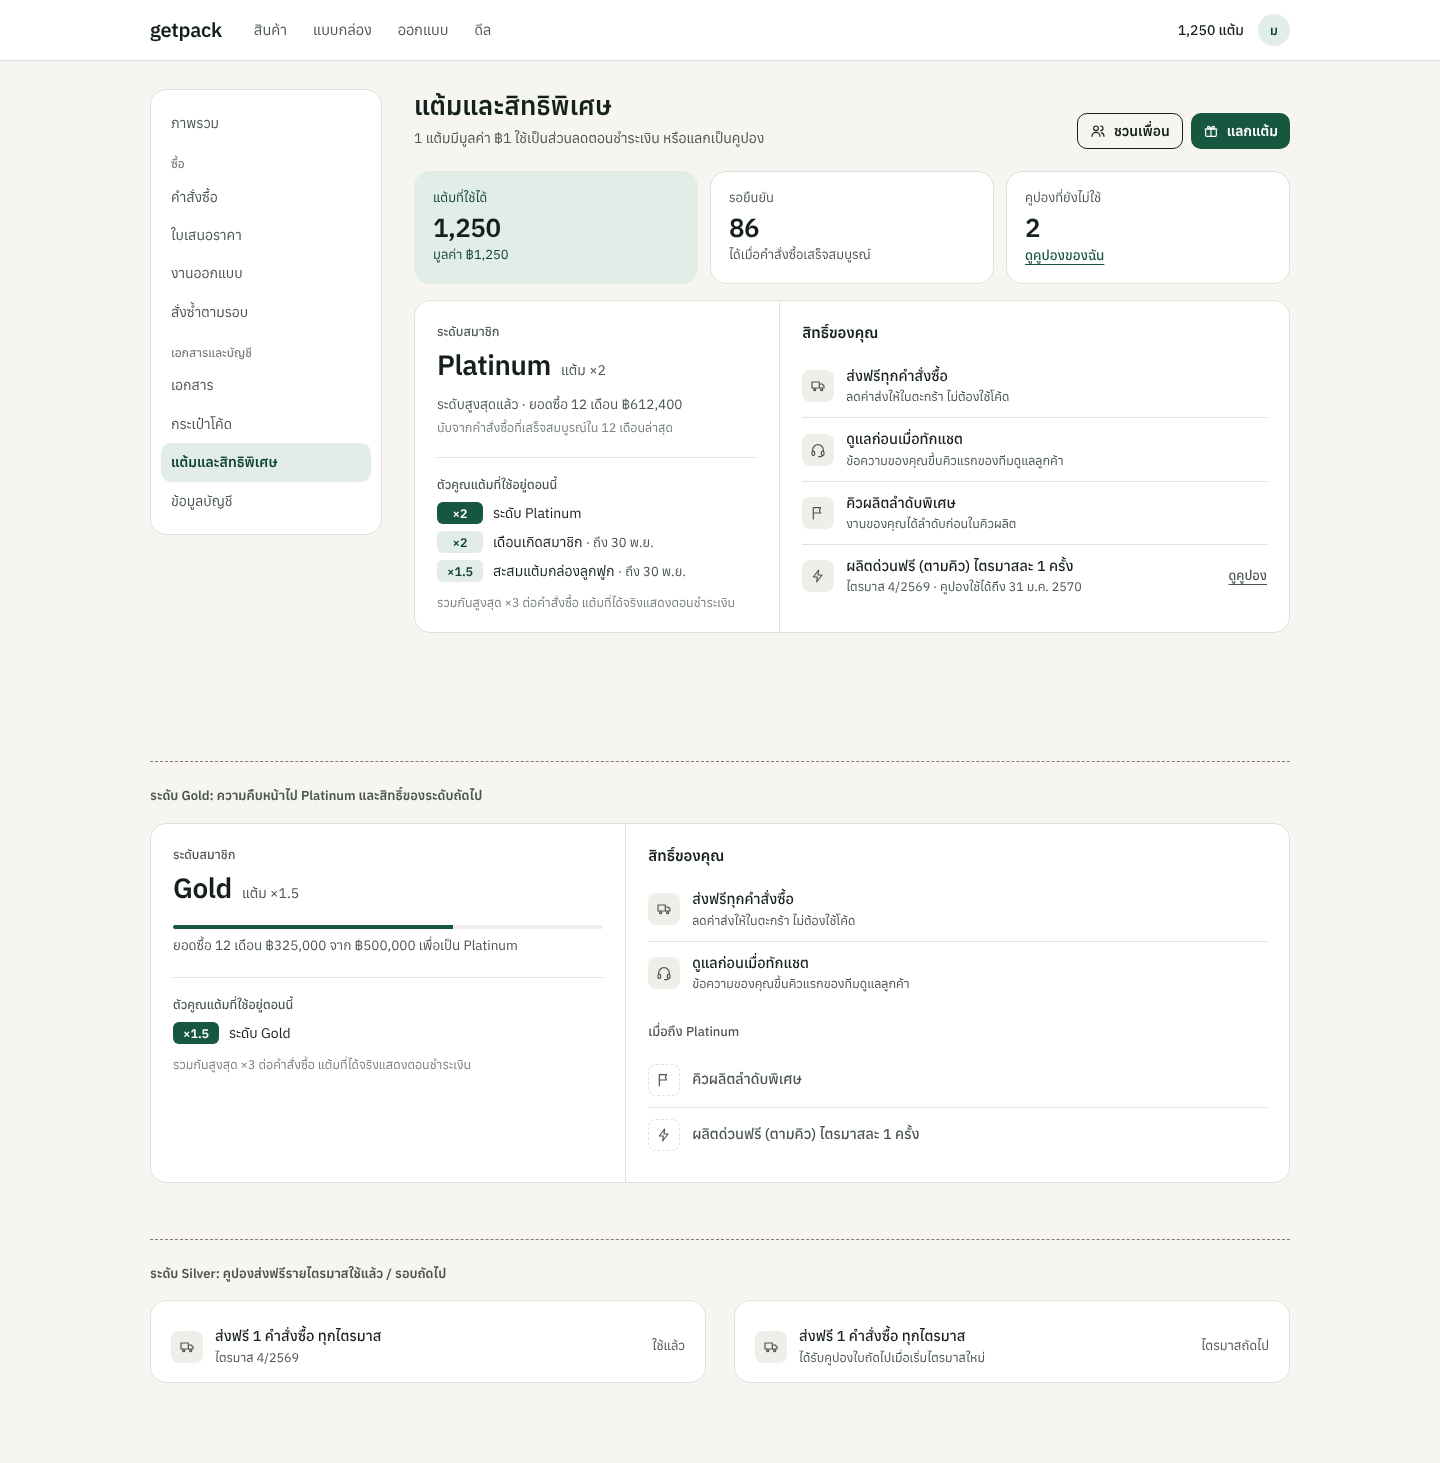
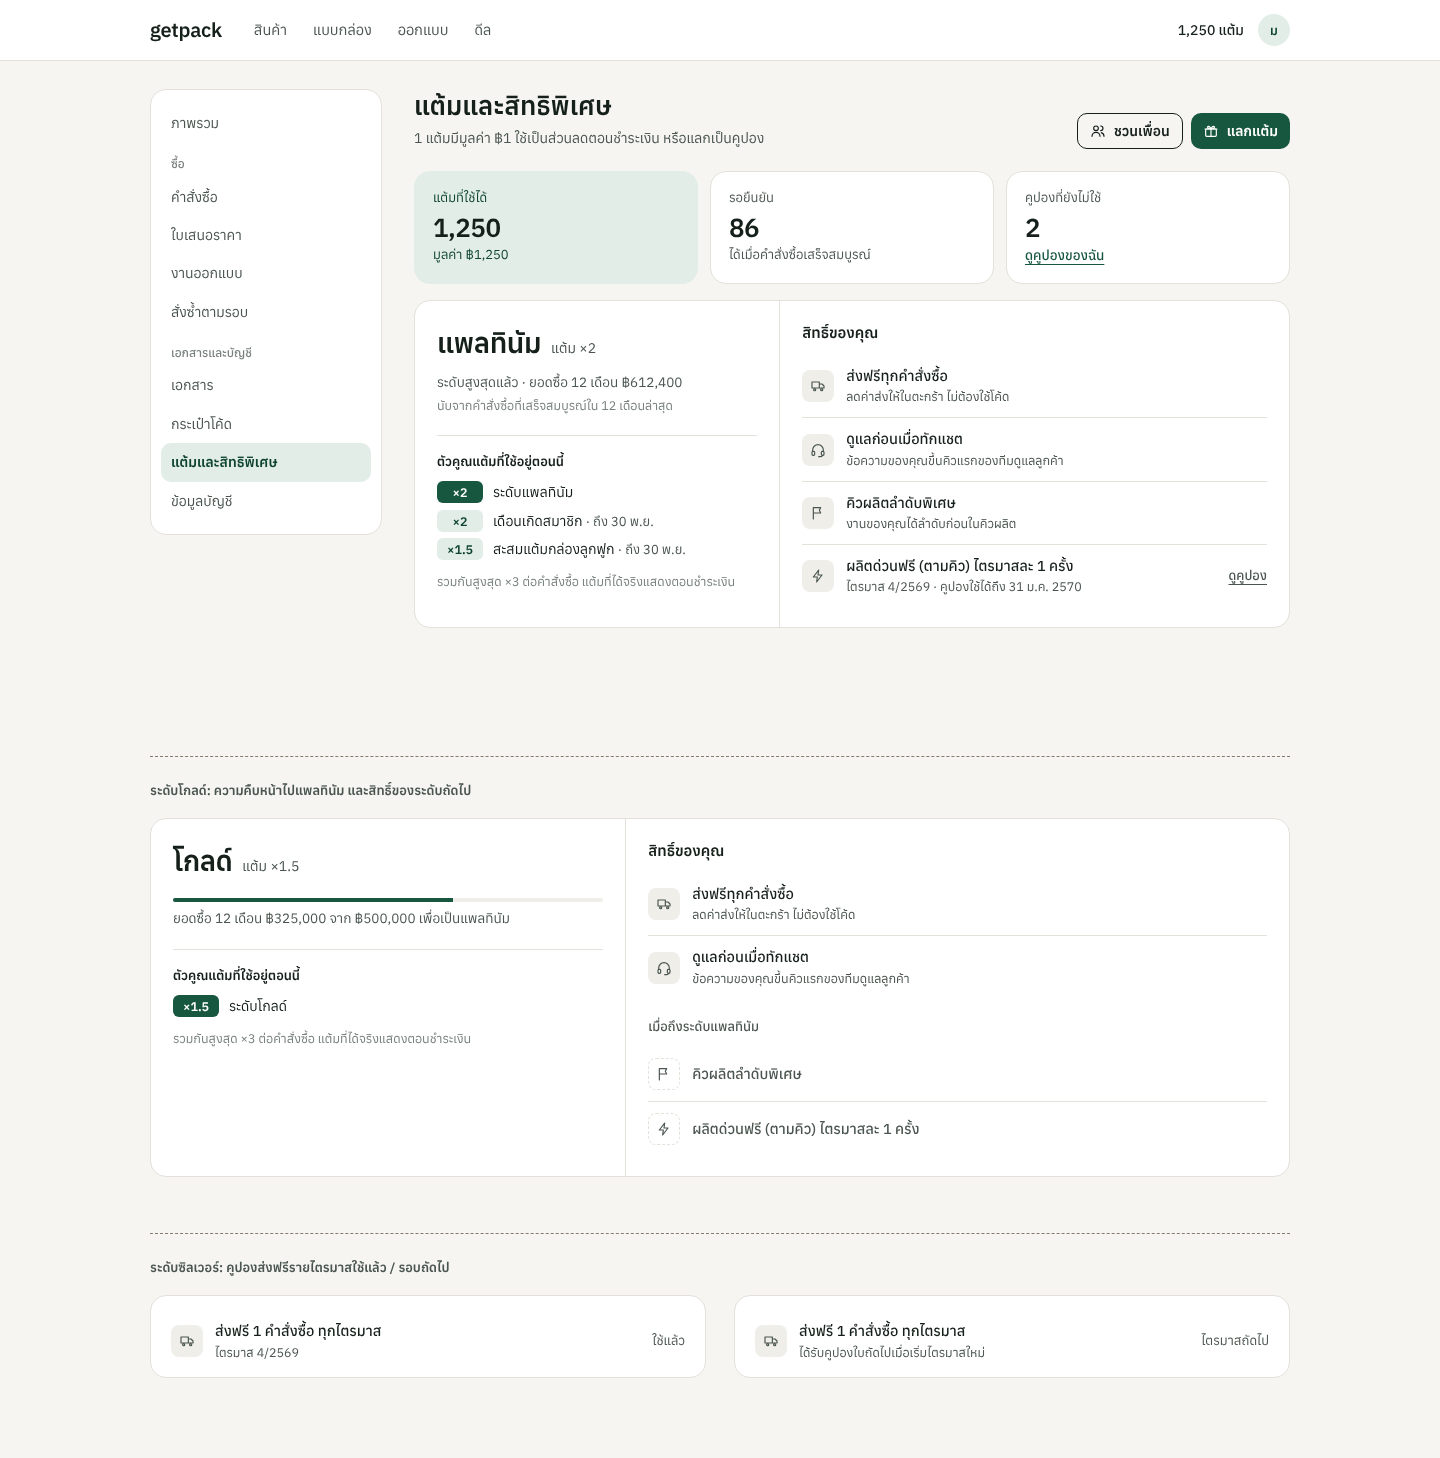
docs(loyalty): P3 prototypes follow the built pages
p3-tier-perks drops the eyebrow (the tier name is the heading) and uses the customer zone's Thai tier names; p3-redeem's cash-off group is ส่วนลดค่าสินค้า. Screenshots at 390 and 1440 re-shot; DESIGN-NOTES self-review extended.

diff --git a/docs/design/loyalty-earn-expansion/prototypes/p3-tier-perks.html b/docs/design/loyalty-earn-expansion/prototypes/p3-tier-perks.html
@@ -337,6 +337,8 @@ h1,h2,h3,p{margin:0}
 .meter{height:4px;border-radius:999px;background:var(--bg-subtle);margin-top:14px;overflow:hidden}
 .meter i{display:block;height:100%;background:var(--primary)}
 .mults{margin-top:20px;padding-top:16px;border-top:1px solid var(--border)}
+.mh{font-size:13px;font-weight:600;margin:0}
+.tname{margin:0;font-weight:inherit}
 .mults ul{list-style:none;margin:8px 0 0;padding:0;display:flex;flex-direction:column;gap:6px}
 .mults li{display:flex;align-items:baseline;gap:10px;font-size:14px}
 .mx{display:inline-flex;justify-content:center;min-width:46px;height:22px;align-items:center;border-radius:6px;background:var(--primary);color:var(--primary-fg);font-size:12.5px;font-weight:600;font-variant-numeric:tabular-nums;flex:none}
@@ -454,14 +456,13 @@ h1,h2,h3,p{margin:0}
 
     <section class="card tp" aria-labelledby="tier-h">
       <div>
-        <p class="eb" id="tier-h">ระดับสมาชิก</p>
-        <p class="tname"><b>Platinum</b><span>แต้ม ×2</span></p>
+        <h2 class="tname" id="tier-h"><span class="sr">ระดับสมาชิก </span><b>แพลทินัม</b><span>แต้ม ×2</span></h2>
         <p class="tline">ระดับสูงสุดแล้ว · ยอดซื้อ 12 เดือน ฿612,400</p>
         <p class="tline" style="margin-top:2px;font-size:12.5px;color:var(--subtle)">นับจากคำสั่งซื้อที่เสร็จสมบูรณ์ใน 12 เดือนล่าสุด</p>
         <div class="mults">
-          <p class="eb">ตัวคูณแต้มที่ใช้อยู่ตอนนี้</p>
+          <h3 class="mh">ตัวคูณแต้มที่ใช้อยู่ตอนนี้</h3>
           <ul>
-            <li><span class="mx">×2</span><span>ระดับ Platinum</span></li>
+            <li><span class="mx">×2</span><span>ระดับแพลทินัม</span></li>
             <li><span class="mx q">×2</span><span>เดือนเกิดสมาชิก <span class="until">· ถึง 30 พ.ย.</span></span></li>
             <li><span class="mx q">×1.5</span><span>สะสมแต้มกล่องลูกฟูก <span class="until">· ถึง 30 พ.ย.</span></span></li>
           </ul>
@@ -491,16 +492,15 @@ h1,h2,h3,p{margin:0}
 </div>
 
 <div class="review">
-  <h3>ระดับ Gold: ความคืบหน้าไป Platinum และสิทธิ์ของระดับถัดไป</h3>
-  <section class="card tp" aria-label="ระดับสมาชิก Gold" style="margin-top:0">
+  <h3>ระดับโกลด์: ความคืบหน้าไปแพลทินัม และสิทธิ์ของระดับถัดไป</h3>
+  <section class="card tp" aria-label="ระดับสมาชิกโกลด์" style="margin-top:0">
     <div>
-      <p class="eb">ระดับสมาชิก</p>
-      <p class="tname"><b>Gold</b><span>แต้ม ×1.5</span></p>
-      <div class="meter" role="meter" aria-valuenow="65" aria-valuemin="0" aria-valuemax="100" aria-label="ความคืบหน้าสู่ Platinum"><i style="width:65%"></i></div>
-      <p class="tline">ยอดซื้อ 12 เดือน ฿325,000 จาก ฿500,000 เพื่อเป็น Platinum</p>
+      <h2 class="tname"><span class="sr">ระดับสมาชิก </span><b>โกลด์</b><span>แต้ม ×1.5</span></h2>
+      <div class="meter" role="meter" aria-valuenow="65" aria-valuemin="0" aria-valuemax="100" aria-label="ความคืบหน้าสู่ระดับแพลทินัม"><i style="width:65%"></i></div>
+      <p class="tline">ยอดซื้อ 12 เดือน ฿325,000 จาก ฿500,000 เพื่อเป็นแพลทินัม</p>
       <div class="mults">
-        <p class="eb">ตัวคูณแต้มที่ใช้อยู่ตอนนี้</p>
-        <ul><li><span class="mx">×1.5</span><span>ระดับ Gold</span></li></ul>
+        <h3 class="mh">ตัวคูณแต้มที่ใช้อยู่ตอนนี้</h3>
+        <ul><li><span class="mx">×1.5</span><span>ระดับโกลด์</span></li></ul>
         <p class="cap">รวมกันสูงสุด ×3 ต่อคำสั่งซื้อ แต้มที่ได้จริงแสดงตอนชำระเงิน</p>
       </div>
     </div>
@@ -514,7 +514,7 @@ h1,h2,h3,p{margin:0}
           <div><p class="t">ดูแลก่อนเมื่อทักแชต</p><p class="m">ข้อความของคุณขึ้นคิวแรกของทีมดูแลลูกค้า</p></div>
           <span></span></li>
       </ul>
-      <p class="next-h">เมื่อถึง Platinum</p>
+      <p class="next-h">เมื่อถึงระดับแพลทินัม</p>
       <ul class="pk">
         <li class="next"><span class="ti"><svg class="ic"><use href="#i-flag"/></svg></span><div><p class="t">คิวผลิตลำดับพิเศษ</p></div><span class="st"></span></li>
         <li class="next"><span class="ti"><svg class="ic"><use href="#i-bolt"/></svg></span><div><p class="t">ผลิตด่วนฟรี (ตามคิว) ไตรมาสละ 1 ครั้ง</p></div><span class="st"></span></li>
@@ -522,7 +522,7 @@ h1,h2,h3,p{margin:0}
     </div>
   </section>
 
-  <h3>ระดับ Silver: คูปองส่งฟรีรายไตรมาสใช้แล้ว / รอบถัดไป</h3>
+  <h3>ระดับซิลเวอร์: คูปองส่งฟรีรายไตรมาสใช้แล้ว / รอบถัดไป</h3>
   <div class="duo">
     <div class="card" style="padding:4px 20px">
       <ul class="pk">

diff --git a/docs/design/loyalty-earn-expansion/prototypes/p3-redeem.html b/docs/design/loyalty-earn-expansion/prototypes/p3-redeem.html
@@ -639,7 +639,7 @@ h1,h2,h3,p{margin:0}
           <div class="mini"><div class="tk end"><div class="face"><div class="stub"><span class="n word">ด่วน</span></div></div></div></div>
           <div>
             <p class="cp-h">ผลิตด่วนฟรี (ตามคิว)</p>
-            <p class="cp-m"><span class="perk-tag">สิทธิ์ระดับ Platinum · ไตรมาส 4/2569</span><span>ใช้ได้ถึง 31 ม.ค. 2570</span></p>
+            <p class="cp-m"><span class="perk-tag">สิทธิ์ตามระดับสมาชิก · ไตรมาส 4/2569</span><span>ใช้ได้ถึง 31 ม.ค. 2570</span></p>
             <div class="cp-code"><span class="code">GP-TP-3HX8-QW71<button class="ib" aria-label="คัดลอกโค้ด GP-TP-3HX8-QW71"><svg class="ic"><use href="#i-copy"/></svg></button></span></div>
           </div>
           <div class="cp-a"><span class="when">สิทธิ์ตามระดับ ยกเลิกไม่ได้</span></div>
@@ -741,9 +741,9 @@ h1,h2,h3,p{margin:0}
       <div class="rw-body"><h3 class="rw-h">ส่งฟรี 1 คำสั่งซื้อ</h3><p class="rw-c">ขั้นต่ำ ฿2,000</p>
         <div class="rw-f"><p class="why"><svg class="ic"><use href="#i-info"/></svg>แต้มไม่พอ — ขาดอีก 12 แต้ม</p></div></div></div></div></li>
     <li class="rw off"><div class="tk v both"><div class="face">
-      <div class="stub"><div class="val"><span class="n">120</span><span class="w">แต้ม</span></div><span class="tier"><svg class="ic"><use href="#i-lock"/></svg>Gold ขึ้นไป</span><span class="perf-h" aria-hidden="true"></span></div>
+      <div class="stub"><div class="val"><span class="n">120</span><span class="w">แต้ม</span></div><span class="tier"><svg class="ic"><use href="#i-lock"/></svg>โกลด์ขึ้นไป</span><span class="perf-h" aria-hidden="true"></span></div>
       <div class="rw-body"><h3 class="rw-h">ผลิตด่วนฟรี (ตามคิว)</h3><p class="rw-c">เร็วขึ้น 2 วันทำการ เมื่อคิวผลิตรับได้</p>
-        <div class="rw-f"><p class="why"><svg class="ic"><use href="#i-lock"/></svg>สำหรับสมาชิก Gold ขึ้นไป</p></div></div></div></div></li>
+        <div class="rw-f"><p class="why"><svg class="ic"><use href="#i-lock"/></svg>สำหรับสมาชิกโกลด์ขึ้นไป</p></div></div></div></div></li>
     <li class="rw off"><div class="tk v both"><div class="face">
       <div class="stub"><div class="val"><span class="n">40</span><span class="w">แต้ม</span></div><span class="perf-h" aria-hidden="true"></span></div>
       <div class="rw-body"><h3 class="rw-h">ส่วนลด ฿100</h3><p class="rw-c">ขั้นต่ำ ฿500</p>

diff --git a/docs/design/loyalty-earn-expansion/DESIGN-NOTES.md b/docs/design/loyalty-earn-expansion/DESIGN-NOTES.md
@@ -353,8 +353,8 @@ figure is a fake example (API-CHANGES-P3 samples and the UAT seed's eight items)
 ## 4. Tier and perks on `/account/points`
 
 - Header actions: "ชวนเพื่อน" (outline) and **"แลกแต้ม" (filled — the page's one primary)**.
-- One panel, two columns (5 : 7). Left: eyebrow "ระดับสมาชิก", the tier name at 28 px (the panel's figure), "แต้ม ×2"
-  beside it; "ระดับสูงสุดแล้ว · ยอดซื้อ 12 เดือน …" at the top tier, or the 4 px meter and "ยอดซื้อ 12 เดือน ฿325,000 จาก
+- One panel, two columns (5 : 7). Left: the tier name at 28 px as the panel's heading and figure ("ระดับสมาชิก" for
+  screen readers only — the design-language gate forbids eyebrow labels), "แต้ม ×2" beside it; "ระดับสูงสุดแล้ว · ยอดซื้อ 12 เดือน …" at the top tier, or the 4 px meter and "ยอดซื้อ 12 เดือน ฿325,000 จาก
   ฿500,000 เพื่อเป็น Platinum". Below a hairline, "ตัวคูณแต้มที่ใช้อยู่ตอนนี้": one row per `activeMultipliers` item —
   a small tag "×2" (solid `primary` for the tier, `primary-subtle` for time-boxed ones) and its name with "· ถึง 30 พ.ย."
   (static). Footnote "รวมกันสูงสุด ×3 ต่อคำสั่งซื้อ แต้มที่ได้จริงแสดงตอนชำระเงิน" (the web never multiplies).
@@ -393,3 +393,8 @@ figure is a fake example (API-CHANGES-P3 samples and the UAT seed's eight items)
   have a word.
 - "แลกแต้ม" appeared twice on `/account/points` (header and a row under the panel) → the row went; the header button is
   the page's primary.
+- The tier panel opened with an eyebrow ("ระดับสมาชิก" above the name) → removed; the name is the heading. Tier names
+  are the customer zone's Thai words (ซิลเวอร์ · โกลด์ · แพลทินัม), as the existing tier copy.
+- "ส่วนลดเงินสด" → "ส่วนลดค่าสินค้า": no customer word says cash (owner: no cash-out wording). The confirm sheet states
+  the validity in days ("90 วันนับจากวันที่แลก") and the date only on the coupon the API returns — the web adds no days
+  to a date.
